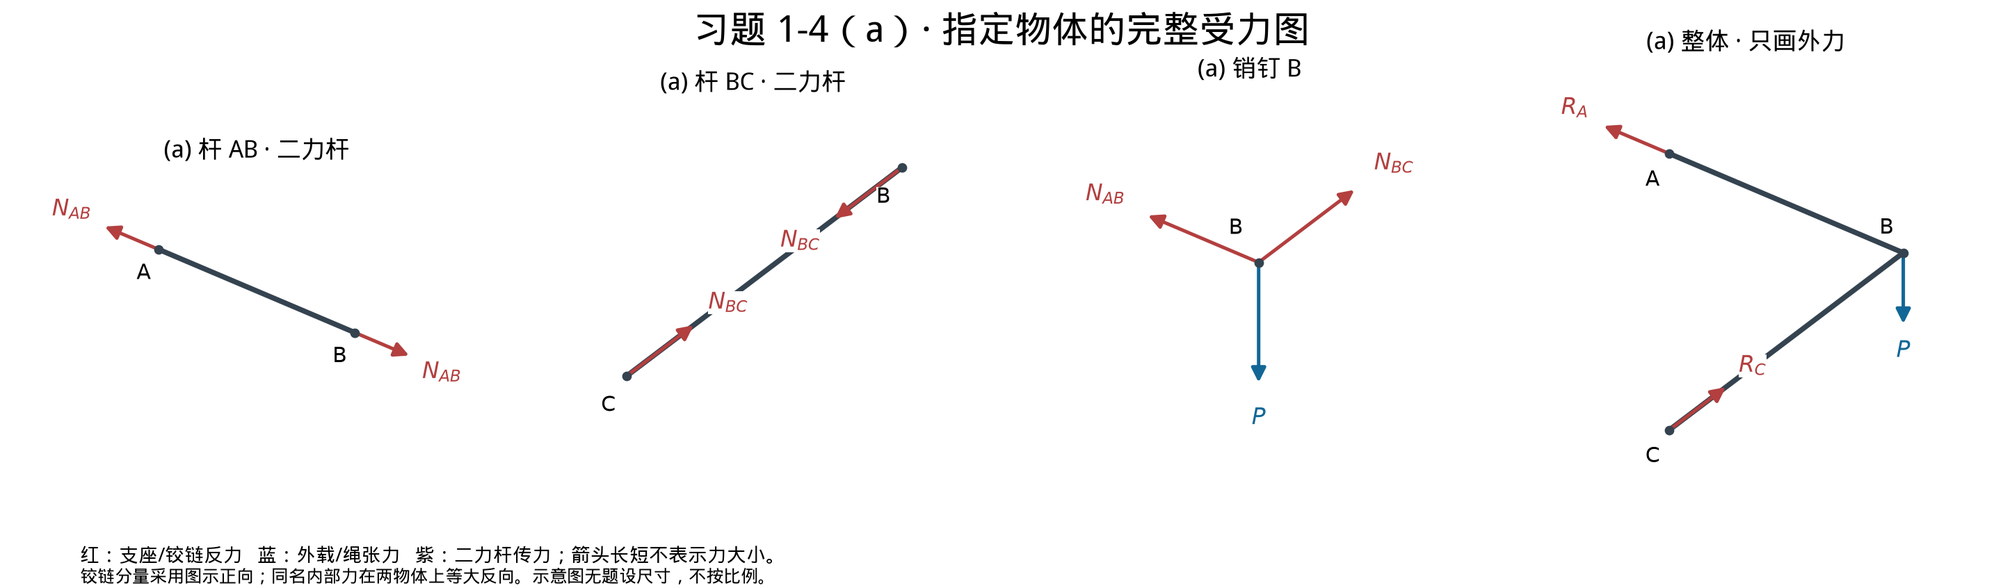
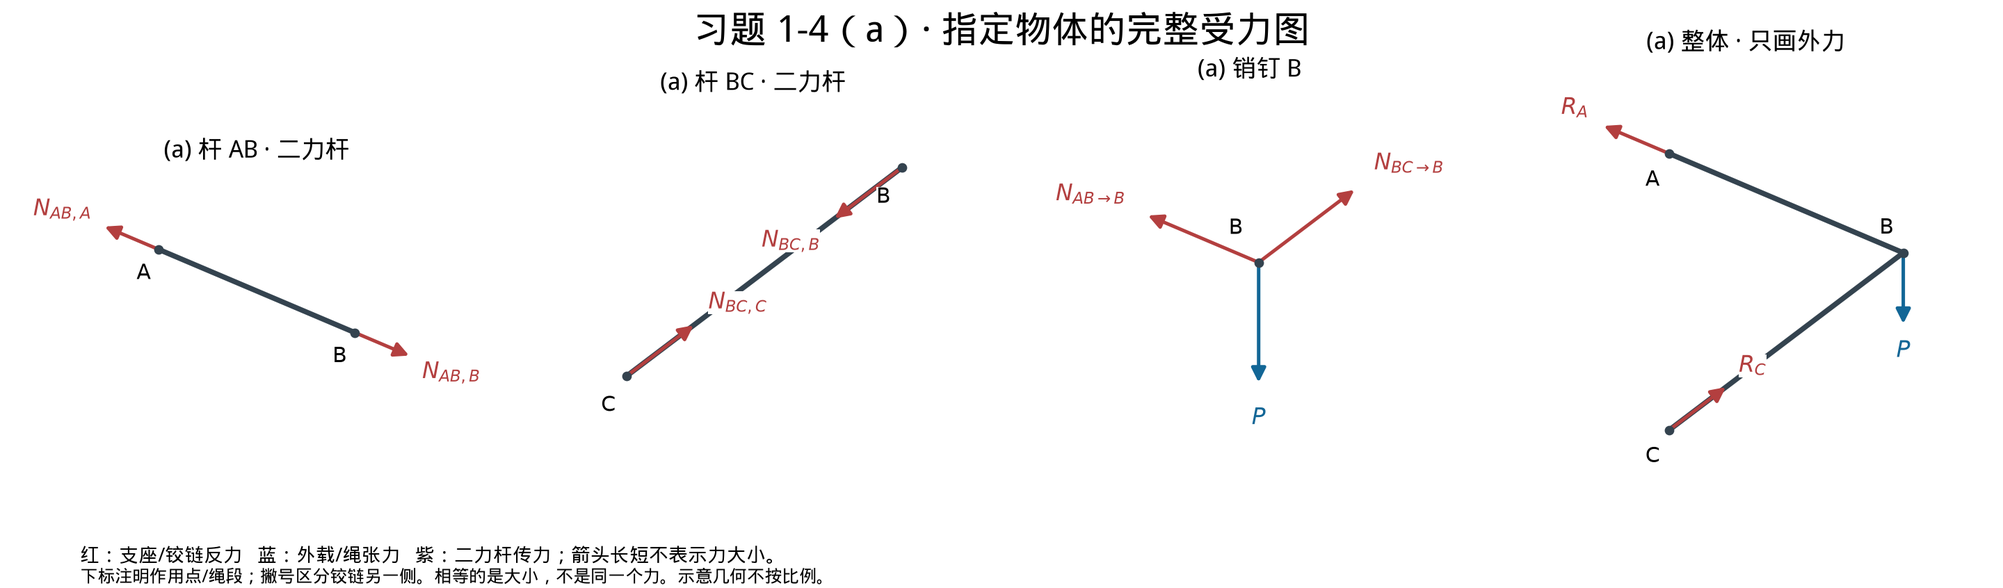
工程力学：区分杆端及绳段力名并说明平衡力与反作用力

diff --git a/scripts/generate_mechanics_homework_20260929.py b/scripts/generate_mechanics_homework_20260929.py
@@ -34,8 +34,13 @@ CJK = None
 class Force:
     point: np.ndarray
     vector: np.ndarray
-    symbol: str
+    symbol: str  # 内部的大小/分量名称，允许在物理上等大的各力之间复用。
     color: str = REACTION
+    display: str | None = None  # 图面须注明作用点、作用对象或绳段。
+
+    @property
+    def label(self):
+        return self.display or self.symbol
 
 
 @dataclass
@@ -48,8 +53,8 @@ class Body:
     ropes: list[list[tuple[float, float]]] = field(default_factory=list)
 
 
-def force(point, vector, symbol, color=REACTION):
-    return Force(np.asarray(point, dtype=float), np.asarray(vector, dtype=float), symbol, color)
+def force(point, vector, symbol, color=REACTION, display=None):
+    return Force(np.asarray(point, dtype=float), np.asarray(vector, dtype=float), symbol, color, display)
 
 
 def unit(p, q):
@@ -57,8 +62,10 @@ def unit(p, q):
     return v / np.linalg.norm(v)
 
 
-def components(point, vector, x, y):
-    return [force(point, (vector[0], 0), x), force(point, (0, vector[1]), y)]
+def components(point, vector, x, y, display=None):
+    dx, dy = display or (x, y)
+    return [force(point, (vector[0], 0), x, display=dx),
+            force(point, (0, vector[1]), y, display=dy)]
 
 
 def models_14(p=2.0):
@@ -70,11 +77,14 @@ def models_14(p=2.0):
     n, m = np.linalg.solve(np.column_stack((n_ab, n_bc)), (0, p))
     ab, bc = n * n_ab, m * n_bc
     bodies["a-ab"] = Body("(a) 杆 AB · 二力杆", {"A": A, "B": B},
-                           [force(A, ab, "N_{AB}"), force(B, -ab, "N_{AB}")], [[A, B]])
+                           [force(A, ab, "N_{AB}", display="N_{AB,A}"),
+                            force(B, -ab, "N_{AB}", display="N_{AB,B}")], [[A, B]])
     bodies["a-bc"] = Body("(a) 杆 BC · 二力杆", {"B": B, "C": C},
-                           [force(B, -bc, "N_{BC}"), force(C, bc, "N_{BC}")], [[B, C]])
+                           [force(B, -bc, "N_{BC}", display="N_{BC,B}"),
+                            force(C, bc, "N_{BC}", display="N_{BC,C}")], [[B, C]])
     bodies["a-pin"] = Body("(a) 销钉 B", {"B": B},
-                            [force(B, ab, "N_{AB}"), force(B, bc, "N_{BC}"),
+                            [force(B, ab, "N_{AB}", display=r"N_{AB\to B}"),
+                             force(B, bc, "N_{BC}", display=r"N_{BC\to B}"),
                              force(B, (0, -p), "P", LOAD)])
     bodies["a-whole"] = Body("(a) 整体 · 只画外力", {"A": A, "B": B, "C": C},
                               [force(A, ab, "R_A"), force(C, bc, "R_C"),
@@ -94,20 +104,20 @@ def models_14(p=2.0):
     bodies["b-ab"] = Body("(b) 杆 AB", {"A": A, "E": E, "B": B},
                            components(A, on_a, "A_x", "A_y")
                            + components(B, on_ab, "B_x", "B_y")
-                           + [force(E, (t, 0), "T", LOAD)], [[A, B]])
+                           + [force(E, (t, 0), "T", LOAD, display="T_E")], [[A, B]])
     bodies["b-cd"] = Body("(b) 杆 CD", {"C": C, "B": B, "D": D},
                            components(C, on_c, "C_x", "C_y")
-                           + components(B, -on_ab, "B_x", "B_y")
+                           + components(B, -on_ab, "B_x", "B_y", display=("B'_x", "B'_y"))
                            + components(D, on_d, "D_x", "D_y"), [[C, D]])
     bodies["b-h"] = Body("(b) 动滑轮 H", {"H": H},
-                          [force((H[0] - rh, H[1]), (0, t), "T", LOAD),
-                           force((H[0] + rh, H[1]), (0, t), "T", LOAD),
-                           force(H, (0, -p), "P", LOAD)], circles=[(H, rh)])
+                          [force((H[0] - rh, H[1]), (0, t), "T", LOAD, display="T_{H,L}"),
+                           force((H[0] + rh, H[1]), (0, t), "T", LOAD, display="T_{H,R}"),
+                           force(H, (0, -p), "P", LOAD, display="Q_H")], circles=[(H, rh)])
     bodies["b-d"] = Body("(b) 销钉与轮 D", {"D": D},
-                          components(D, -on_d, "D_x", "D_y")
-                          + [force((D[0], D[1] + r), (-t, 0), "T", LOAD),
-                             force((D[0] + r, D[1]), (0, -t), "T", LOAD),
-                             force(D, (0, -t), "T", LOAD)], circles=[(D, r)])
+                          components(D, -on_d, "D_x", "D_y", display=("D'_x", "D'_y"))
+                          + [force((D[0], D[1] + r), (-t, 0), "T", LOAD, display="T_{D,h}"),
+                             force((D[0] + r, D[1]), (0, -t), "T", LOAD, display="T_{D,r}"),
+                             force(D, (0, -t), "T", LOAD, display="T_{D,0}")], circles=[(D, r)])
     weight = (H[0], H[1] - 1.1)
     weight_box = [(weight[0] - .25, weight[1] - .2), (weight[0] + .25, weight[1] - .2),
                   (weight[0] + .25, weight[1] + .2), (weight[0] - .25, weight[1] + .2),
@@ -130,14 +140,15 @@ def models_14(p=2.0):
     nb = (D[0] * d_on_ce[1] + B[0] * eb_on_ce[1]) / B[0]
     a = d_on_ce + eb_on_ce - (0, nb)
     c_top, c_right = (C[0], C[1] + r), (C[0] + r, C[1])
-    rope_forces = [force(c_top, (-p, 0), "T", LOAD), force(c_right, (0, -p), "P", LOAD)]
+    rope_forces = [force(c_top, (-p, 0), "T", LOAD, display="T_h"),
+                   force(c_right, (0, -p), "P", LOAD, display="T_v")]
     bodies["c-ab"] = Body("(c) 杆 AB 与销钉 B", {"A": A, "D": D, "B": B},
                            components(A, a, "A_x", "A_y")
                            + components(D, -d_on_ce, "D_x", "D_y")
-                           + [force(B, (0, nb), "N_B"), force(B, -eb_on_ce, "F_{EB}", LINK)], [[A, B]])
+                           + [force(B, (0, nb), "N_B"), force(B, -eb_on_ce, "F_{EB}", LINK, display="F_{EB,B}")], [[A, B]])
     bodies["c-ce"] = Body("(c) 杆 CE 与滑轮", {"E": E, "D": D, "C": C},
-                           components(D, d_on_ce, "D_x", "D_y")
-                           + [force(E, eb_on_ce, "F_{EB}", LINK)] + rope_forces,
+                           components(D, d_on_ce, "D_x", "D_y", display=("D'_x", "D'_y"))
+                           + [force(E, eb_on_ce, "F_{EB}", LINK, display="F_{EB,E}")] + rope_forces,
                            [[E, C]], [(C, r)])
     bodies["c-whole"] = Body("(c) 整体 · D/EB力不画", {"A": A, "D": D, "B": B, "E": E, "C": C},
                               components(A, a, "A_x", "A_y") + [force(B, (0, nb), "N_B")]
@@ -247,7 +258,7 @@ def plot_body(ax, body):
                 bbox=dict(facecolor="white", edgecolor="none", pad=.1), zorder=8)
         extents.extend((point, (point[0] + 2 * dx, point[1] + 2 * dy)))
     for load in body.forces:
-        end, pos = arrow(ax, load.point, load.vector, f"${load.symbol}$", load.color)
+        end, pos = arrow(ax, load.point, load.vector, f"${load.label}$", load.color)
         extents.extend((load.point, end, pos))
     points = np.asarray(extents)
     lo, hi = points.min(axis=0), points.max(axis=0)
@@ -263,13 +274,13 @@ def save_group(bodies, group, shape, figsize):
         plot_body(ax, body)
     for ax in axes[len(selected):]:
         ax.axis("off")
-        chinese(ax, .08, .82, "动滑轮 H：2T = P", 15, transform=ax.transAxes)
-        chinese(ax, .08, .63, "轮 D：顶部、右侧、轴心各一项 T", 12, transform=ax.transAxes)
-        chinese(ax, .08, .44, "B、D两侧的同名分量等大反向", 12, transform=ax.transAxes)
+        chinese(ax, .08, .82, "动滑轮 H：2T = QH = P", 15, transform=ax.transAxes)
+        chinese(ax, .08, .63, "T的下标区分绳段；理想绳各段大小相等", 12, transform=ax.transAxes)
+        chinese(ax, .08, .44, "B、D连接另一侧用撇号；对应力反向", 12, transform=ax.transAxes)
         chinese(ax, .08, .25, "整体只保留 A、C 支反力和 P", 12, transform=ax.transAxes)
     fig.suptitle(f"习题 1-4（{group}）· 指定物体的完整受力图", fontproperties=CJK, fontsize=21, y=.98)
     fig.text(.04, .045, "红：支座/铰链反力   蓝：外载/绳张力   紫：二力杆传力；箭头长短不表示力大小。", fontproperties=CJK, fontsize=11)
-    fig.text(.04, .01, "铰链分量采用图示正向；同名内部力在两物体上等大反向。示意图无题设尺寸，不按比例。", fontproperties=CJK, fontsize=10)
+    fig.text(.04, .01, "下标注明作用点/绳段；撇号区分铰链另一侧。相等的是大小，不是同一个力。示意几何不按比例。", fontproperties=CJK, fontsize=10)
     fig.subplots_adjust(left=.025, right=.975, top=.87, bottom=.14, wspace=.20, hspace=.30)
     fig.savefig(OUT / f"解答-1-4-{group}.png", dpi=180)
     plt.close(fig)

diff --git a/scripts/verify_mechanics_homework_20260929.py b/scripts/verify_mechanics_homework_20260929.py
@@ -74,6 +74,10 @@ def verify_14():
         for key, symbols in expected.items():
             body = bodies[key]
             assert Counter(load.symbol for load in body.forces) == Counter(symbols), key
+            # 每个分离体的可见标注必须区分作用点/对象，不能因共享大小名称而重名。
+            labels = [load.label for load in body.forces]
+            assert all(not any(ord(char) < 32 for char in label) for label in labels), labels
+            assert len(labels) == len(set(labels)), (key, labels)
             check_balance(body.forces)
             for load in body.forces:
                 # 铰链的x/y分量必须水平/竖直，不能用两项斜箭头或一项合力替代。
@@ -81,6 +85,13 @@ def verify_14():
                     assert load.vector[1] == 0
                 if load.symbol.endswith("_y"):
                     assert load.vector[0] == 0
+        assert [f.label for f in bodies["a-ab"].forces] == ["N_{AB,A}", "N_{AB,B}"]
+        assert [f.label for f in bodies["a-bc"].forces] == ["N_{BC,B}", "N_{BC,C}"]
+        for key in ("b-cd", "b-d", "c-ce"):
+            assert any("'" in f.label for f in bodies[key].forces), key
+        assert pick(bodies["b-h"], "P").label == "Q_H"
+        assert pick(bodies["c-ce"], "T").label == "T_h"
+        assert pick(bodies["c-ce"], "P").label == "T_v"
         for key, symbol in (("a-ab", "N_{AB}"), ("a-bc", "N_{BC}")):
             first, second = bodies[key].forces
             opposite(first, second)
@@ -109,7 +120,7 @@ def verify_14():
                 if np.linalg.norm(r) > 1e-10:
                     assert np.isclose(np.linalg.norm(r), radius)
                     assert abs(np.dot(r, load.vector)) < 1e-9 * p
-    print("PASS：120组×12个分离体/整体，外力清单、正交分量、绳切线、内部力反向及三个矩心平衡")
+    print("PASS：120组×12个分离体/整体，可见标注无重名、外力清单、正交分量、绳切线、内力反向及三个矩心平衡")
 
 
 def solve_36(p, arm_f, arm_p, yc, yb, yd):

diff --git a/工程力学/作业/2026-09-29-作业/参考答案.md b/工程力学/作业/2026-09-29-作业/参考答案.md
@@ -19,14 +19,41 @@
 构件自重及摩擦按题中理想约束忽略。
 
 **读图说明**：下面三个分图共包含 **12 个指定分离体**。箭头长短不表示力大小，几何不按比例；
-铰链未知分量采用图示正向，同名内部力在两物体上反向。整体图只保留外力，不重复画内力。
+铰链未知分量采用图示正向。为避免同名力混淆，现加作用点/绳段下标，并用撇号区分铰链另一侧。
+整体图只保留外力；各分离体图独立记账，不能把不同图上的箭头相加后说同一物体受了这么多力。
+
+### 为什么原图有两个 N_AB？——大小相等，不是同一个力
+
+原图在杆 AB 的两端都写 N_AB，是将**两端外力的大小**统一记为 N_AB，不是将同一力画两次。
+现将图上两个力分别标为 $N_{AB,A}$、$N_{AB,B}$：
+
+| 新图标记 | 谁对谁施力 | 作用点 | 图示方向 |
+|---|---|---|---|
+| $N_{AB,A}$ | A处支座对杆AB | 杆的A端 | 左上，沿BA |
+| $N_{AB,B}$ | 销钉B对杆AB | 杆的B端 | 右下，沿AB |
+| $N_{AB\to B}$ | 杆AB对销钉B | 销钉B | 左上，与上一行反向 |
+
+前两项都作用在**同一根杆 AB**上：因杆只受这两个外力且平衡，两力大小相等、方向相反、共线。
+它们是杆的**一对平衡力，不是第三定律的一对作用力与反作用力**。
+
+第二、三项才是作用力与反作用力：一项作用在杆 AB，另一项作用在销钉 B。
+三项大小都等于 N_AB，但作用点/对象不同；箭头给出方向，不能把“大小相等”误读为“力矢量相同”。
+BC 两端按同样方法改标 $N_{BC,B}$、$N_{BC,C}$；销钉上标 $N_{BC\to B}$。 **不同杆的 N_AB 与 N_BC 一般并不相等**；图上箭头长短只是示意，不是大小比较。
+
+其他重复符号也区分如下：
+
+- **铰链另一侧**：(b) AB上的 B_x/B_y 与 CD上的 B′_x/B′_y，CD上的 D_x/D_y 与轮D上的 D′_x/D′_y；(c) AB上的 D_x/D_y 与 CE上的 D′_x/D′_y。对应的是不同物体上等大反向的力，撇号不是导数。图示标量按各自箭头计，在同一坐标系比较的是相反的力矢量。
+- **理想绳的不同段**：(b)用 T_E、T_H,L、T_H,R、T_D,h、T_D,r、T_D,0 标明位置，大小均等于 T＝P/2；相等的大小不代表只有一个绳力。
+- **重物传给轮H的力**：记 Q_H＝P，而不是把它误读成轮H自己的重力。P是所吊重物的重力大小。
+- **(c)滑轮两绳力**：记水平 T_h、竖直 T_v，且 T_h＝T_v＝P；竖直力是绳对滑轮的拉力，不是直接作用在滑轮上的重物重力。
+- **不同小题互相独立**：(b)的 T＝P/2，(c)的 T＝P；跨小题复用字母不表示同一个未知量或相同数值。一个外力在构件图、整体图中再次出现，则是同一外力的两种独立记账，不可重复计入同一平衡方程。
 
 ### (a) 对象：AB、BC、销钉 B、整体
 
 ![习题1-4(a)受力图：杆AB、杆BC、销钉B与整体](图/解答-1-4-a.png)
 
-- **杆 AB**：仅 A、B 两处受力，杆上无载荷 → **二力杆**。A、B 端力等大反向、沿直线 AB。按图中 P 向下，AB 受拉，A 端力向左上、B 端力向右下。
-- **杆 BC**：仅 B、C 两处受力 → **二力杆**。B、C 端力等大反向、沿直线 BC。BC 受压，B 端力向左下、C 端力向右上。
+- **杆 AB**：仅 A、B 两处受力，杆上无载荷 → **二力杆**。A端 $N_{AB,A}$ 与 B端 $N_{AB,B}$ 大小相等、反向、沿直线 AB。按图中 P 向下，AB 受拉，A 端力向左上、B 端力向右下。
+- **杆 BC**：仅 B、C 两处受力 → **二力杆**。B端 $N_{BC,B}$ 与 C端 $N_{BC,C}$ 大小相等、反向、沿直线 BC。BC 受压，B 端力向左下、C 端力向右上。
 - **销钉 B**：三个力——外载 P（竖直向下）；AB 对销的力（沿 BA，向左上）；BC 对销的力（沿 CB，向右上）。两杆对销的力与销对两杆的力分别反向，三力汇交于 B 并平衡。
 - **整体**：外力只有 A 处反力（沿 AB、向左上）、C 处反力（沿 CB、向右上）、B 处 P（向下）。两杆之间的销钉力属于内力，不画；三条外力作用线交于 B。
 
@@ -37,10 +64,10 @@
 理想绳张力全绳相等记 T；轮 H 吊重 P，左右两绳段竖直：
 **2T＝P，即 T＝P/2**。
 
-- **杆 AB**：A 铰支的两分量 `(A_x, A_y)`；E 点绳拉力 T（水平向右、指向 D）；B 铰的两分量 `(B_x, B_y)`。共 5 个力分量，**不是二力杆**。
-- **杆 CD**：C 铰支的两分量 `(C_x, C_y)`；B 铰的两分量（与 AB 上同名分量反向）；D 处销对杆的两分量 `(D_x, D_y)`。共 6 个力分量。
-- **轮 H（动滑轮）**：左、右两绳段各一项 T（向上），吊重通过连接件向下拉轮，记 P。平衡得到 T＝P/2。
-- **销钉和轮 D（合取）**：绳对轮/销共有 **三项 T**：顶部切线水平向左、右侧切线竖直向下、系于轴心的绳端竖直向下；另外有杆 CD 通过销传来的两分量，与杆 CD 上的 `(D_x, D_y)` 分别反向。不可漏掉轴心的第三项 T。
+- **杆 AB**：A 铰支的两分量 `(A_x, A_y)`；E 点绳拉力 T_E＝T（水平向右、指向 D）；B 铰的两分量 `(B_x, B_y)`。共 5 个力分量，**不是二力杆**。
+- **杆 CD**：C 铰支的两分量 `(C_x, C_y)`；B 铰两分量 `(B′_x, B′_y)`（与 AB 上 B_x/B_y 分别反向）；D 处销对杆的两分量 `(D_x, D_y)`。共 6 个力分量。
+- **轮 H（动滑轮）**：左、右两绳段分别为 T_H,L、T_H,R（向上），均等于 T；吊重通过连接件向下拉轮，记 Q_H。重物静止且连接件理想，Q_H＝P；轮H平衡得到 T_H,L＋T_H,R＝Q_H，即 2T＝P。
+- **销钉和轮 D（合取）**：绳对轮/销共有 **三项拉力**：顶部 T_D,h（水平向左）、右侧 T_D,r（竖直向下）、轴心绳端 T_D,0（竖直向下），三者大小均为 T；另外有杆 CD 通过销传来的 `(D′_x, D′_y)`，与杆 CD 上 D_x/D_y 分别反向。不可漏掉轴心的第三项绳力。
 - **整体**（杆、销、绳、滑轮及所吊重物一起取）：只画 A、C 两铰支的四个反力分量和向下的 P。绳张力及 B、D 的连接力均属于内力，不画。
 
 ### (c) 对象：AB 和销钉 B、CE 和滑轮、整体
@@ -50,9 +77,9 @@
 斜杆 EB 两端铰接、中间无载 → **二力杆**，传力沿 EB。B 处为水平辊轴支座，反力竖直，记 `N_B`。
 **D 是 AB 与 CE 的连接铰：分离任一杆时都必须画 D 的两分量，只有取整体才消去。**
 
-- **AB 和销钉 B**：A 铰支两分量 `(A_x, A_y)`；**D 铰两分量 `(D_x, D_y)`**；B 处辊轴反力 `N_B`（竖直）；B 处 EB 传来的力 `F_EB`（沿 EB，图示向右下）。共 6 个力分量，不能漏 D 点。
-- **CE 和滑轮**：E 处 EB 传来的力 `F_EB`（沿 EB、与 AB/B 上的力反向，图示向左上）；D 铰的两分量（与 AB 上同名分量反向）；滑轮顶部绳的水平张力 T（向左）与右侧绳的竖直张力（向下、等于 P）。共 5 个力分量。理想绳与所吊重物静止，T＝P，两项绳力按轮缘切线作用点画。
-- **整体**（杆、销、滑轮；绳与重物不包含在此对象内）：外力为 A 铰两分量、B 处 `N_B`、滑轮顶部向左的 T、右侧向下的 P。D 铰力与 EB 两端力都属于内力，不画。
+- **AB 和销钉 B**：A 铰支两分量 `(A_x, A_y)`；**D 铰两分量 `(D_x, D_y)`**；B 处辊轴反力 `N_B`（竖直）；B 处 EB 传来的力 `F_EB,B`（沿 EB，图示向右下）。共 6 个力分量，不能漏 D 点。
+- **CE 和滑轮**：E 处 EB 传来的力 `F_EB,E`（沿 EB、与 AB/B 上 F_EB,B 大小相等反向，图示向左上）；D 铰两分量 `(D′_x, D′_y)`（与 AB 上 D_x/D_y 分别反向）；滑轮顶部水平绳力 T_h（向左）与右侧竖直绳力 T_v（向下）。共 5 个力分量。理想绳与所吊重物静止，T_h＝T_v＝P，两项绳力按轮缘切线作用点画。
+- **整体**（杆、销、滑轮；绳与重物不包含在此对象内）：外力为 A 铰两分量、B 处 `N_B`、滑轮顶部向左的 T_h、右侧向下的 T_v。T_h＝T_v＝P。D 铰力与 EB 两端力都属于内力，不画。
 
 ### 1-4 受力图自查
 
@@ -60,11 +87,11 @@
 |---|---|
 | (a) 二力杆 | AB 两端沿 AB，BC 两端沿 BC；同杆两端反向 |
 | (a) 销钉 | 两杆力分别向左上、右上，P 向下；不能照搬杆端力的箭头 |
-| (b) 轮 H | 两项向上的 T、一项向下的 P；T＝P/2 |
+| (b) 轮 H | T_H,L、T_H,R 向上，Q_H＝P 向下；T＝P/2 |
 | (b) 销钉与轮 D | 顶部向左 T、右侧向下 T、轴心向下 T，以及轴心两反力分量 |
-| (b) 内铰 | AB/CD 的 B 分量反向；CD/轮 D 的 D 分量反向 |
+| (b) 内铰 | AB的 B_x/B_y 与 CD的 B′_x/B′_y 反向；CD的 D_x/D_y 与轮D的 D′_x/D′_y 反向 |
 | (c) D 点 | **AB 图与 CE 图都画 D 的两分量，且分别反向** |
-| (c) 滑轮绳力 | 顶部向左 T、右侧向下 P，两力均沿轮缘切线；T＝P |
+| (c) 滑轮绳力 | 顶部向左 T_h、右侧向下 T_v，两力均沿轮缘切线；T_h＝T_v＝P |
 | 所有整体图 | 删除内部连接力，只画对应研究对象受到的外力 |
 
 ---

diff --git a/工程力学/memory/HANDOFF.md b/工程力学/memory/HANDOFF.md
@@ -2,6 +2,15 @@
 
 > **永远保持最新。新会话开局第一件事：读本学科 `_开局指令-给新会话Agent.md`，再读本文件。**
 
+## 最新复核 · 2026-10-02 · 同名力标注消歧（优先于下方旧图标注）
+
+- 用户问“这都对吗？为啥好几个力的命名一致。两个NAB”。不是用户提交的错误答案，不判卷、不升降卡片。
+- 重新对照1-4原题/三组图并运行独立核验：未发现新的受力漏项；3-6五个数值仍与教材答案页一致。本轮只改善命名，不改变作用点/方向/计算结果；改名前后12个分离体模型数据逐项比较相同。
+- **关键解释**：AB图的两项N_AB是A端支座对杆、B端销对杆的两个外力，大小相等而矢量反向，均在AB上，是二力杆的一对平衡力，**不是第三定律的一对作用反作用力**。AB/B端受销的力与销钉图上AB对销的力，才是不同物体上的作用反作用。N_AB与另一杆N_BC一般不等。
+- 新图：AB两端`N_AB,A/N_AB,B`、BC两端`N_BC,B/N_BC,C`；销钉力注明`AB→B/BC→B`；铰链另一侧分量加撇号；绳力注明H/D/方向或端点，轮H连接力用Q_H=P，(c)两绳力用T_h/T_v且均=P。各小题独立，(b)T=P/2与(c)T=P不混用。
+- `参考答案.md`新增“为什么原图有两个N_AB”与施力/受力对象表，并同步更新逐物体说明；生成器将物理大小名称与可见标签分离，核验追加每个分离体可见标签唯一/无控制字符检查。三张分图与兼容旧总图已重生成、肉眼检查。
+- 1-4仍是按理想约束独立复核、无第1章官方答案，不能夸称官方核对；仅命名说明与模型检查，用户未接受教学验收。继续仅推`arena/01a0fb75-zixue2026`，不写main。
+
 ## 最新修复 · 2026-10-02 · 9月29日参考答案补图（优先于旧交付记录）
 
 - 用户指出“工程力学最新的答案里没有图”。根因：`作业/2026-09-29-作业/参考答案.md` 只有代码样式的文件名，没有 Markdown 图片语法；不是PNG丢失。

diff --git a/工程力学/memory/ERRORS.md b/工程力学/memory/ERRORS.md
@@ -125,3 +125,11 @@
 - **图面未被此前复核充分覆盖**：旧1-4(c)AB图和文字漏D铰两分量，旧图还有两分量斜画、销钉力与杆端力箭头不反向；3-6漏XA/XB。已重绘全部12分离体及3-6完整空间图，按外力清单、正交方向、内部力配对、轮缘切线核验；数值正确不能替代图面逐项核对。
 - **PDF索引差一页**：旧题面/JSON将0-based索引30/77当PDF页码，答案写288。实际PDF1-based为31/78和289；原件对应34/81。双源文本/像素核验后同步改题面、答案、JSON、docx/预览与入口。
 - **可迁移红线**：分离体先逐点列全外力（本例D在两杆上都出现，整体才消去）；每对内力核查反向；铰链两分量不可斜画冒充；不把偏心力搬到轴线上漏力偶。自检P与F必须分开，用不等力臂测试防止恒等式“假通过”。1-4自选示意几何只验证模型，不冒充官方答案。
+
+
+## 【符号判例】等大力共用名称须讲清受力对象（2026-10-02）
+
+- Agent图上将杆AB两端均标N_AB，用户追问“两个NAB”；这不是重画同一力的物理错误，而是对初学者不够清楚的大小记法。现分别标N_AB,A/N_AB,B；销钉所受杆力另注明来源，铰链另一侧加撇号，绳力注明绳段。
+- **不可把所有等大反向的力都称为作用反作用**：杆AB的A/B端两个外力均作用AB，因二力杆平衡而等大反向；销对杆B端的力与杆对销的力，才属于不同物体上的作用反作用。
+- N是大小名称，完整受力还需对象/作用点/方向；不同小题同名量独立、不同杆N_AB/N_BC不默认相等。轮H的连接力Q_H=P、滑轮的竖直绳力T_v=P只是大小等于重物P，不能描述成滑轮自重。
+- 本轮改名前后12个模型逐项比较未改作用点/矢量；独立核验通过。问题问句不当作用户错误、不升级验收。后续图面标注检查每个分离体标签不重名，且逐张肉眼确认渲染。

diff --git a/工程力学/作业/README.md b/工程力学/作业/README.md
@@ -56,7 +56,7 @@
 | `2026-09-29-作业/题面.md` | 题面誊录及内嵌原题图；页码换算（1-4：教材26/框架PDF31/原件PDF34；3-6：教材73/框架PDF78/原件PDF81，均从1计页） |
 | [2026-09-29-作业/参考答案.md](2026-09-29-作业/参考答案.md) | **图已直接嵌入正文**：两张原题图、1-4 的12个指定分离体（a/b/c三组）、3-6完整空间受力图；1-4(c)已补D铰两反力分量。3-6建系+五方程+自查表，**与教材答案页（框架PDF289）逐项一致**（F=800、XA=320、ZA=−480、XB=−1120、ZB=−320），附两轴承合反力大小 |
 | `2026-09-29-作业/图/题1-4.png`、`题3-6.png` | 教材裁图（220 dpi） |
-| `2026-09-29-作业/图/解答-1-4-a.png`、`解答-1-4-b.png`、`解答-1-4-c.png`、`解答-3-6.png` | 修订解答图；铰链分量正交、内力成对反向、绳力按接触切线画；3-6四个轴承分量及两项200mm力臂齐全 |
+| `2026-09-29-作业/图/解答-1-4-a.png`、`解答-1-4-b.png`、`解答-1-4-c.png`、`解答-3-6.png` | 修订解答图；杆端/绳段加下标，铰链另一侧加撇号（2026-10-02消歧）；铰链分量正交、内力成对反向、绳力按接触切线画；3-6四个轴承分量及两项200mm力臂齐全 |
 | `2026-09-29-作业/图/解答-1-4.png`、`制作解答图.py`、`制作解答图-1-4.py` | 总图与两个旧脚本入口均保留；实际实现为仓级 `scripts/generate_mechanics_homework_20260929.py`，可从任意目录调用旧入口 |
 
 说明：预览 PDF 现已正常显示中文——`scripts/docx_preview_pdf.py` 在沙箱缺中文字体时会自动用

diff --git a/工程力学/memory/PROGRESS.md b/工程力学/memory/PROGRESS.md
@@ -119,3 +119,11 @@
 - PDF页码从0索引改为1-based：题面框架31/78、原件34/81、答案框架289。JSON/docx/预览同步，一页审计仍通过。
 - 仓级生成/独立核验09-29脚本已落地并通过；检查实际Markdown图片渲染和PNG解码，不仅查文件存在。1-4为示意几何自检，不声称官方核对。
 - 本轮不是判卷或课题验收，不改复习卡、不要求交卷；仅推`arena/01a0fb75-zixue2026`，不更新main。
+
+
+### 2026-10-02 续 · 两个N_AB与其他同名力的消歧
+
+- 用户追问正确性和重复命名；重新对照原题/图并跑独立核验，12分离体作用点/力矢量与改名前逐项一致，3-6结果不变。
+- 解释：AB两端大小均N_AB，分别作用于杆的A/B端，是同一物体上的平衡力；杆在B端受销的力与杆对销的力才为作用反作用。不同杆N_AB/N_BC不默认相等。
+- 图面改为杆端下标、销钉受力来源、铰链对侧撇号、绳段下标；Q_H=P与T_h=T_v=P明确为传递力大小，非把重物重力直接画在滑轮上。答案新增符号解释表。
+- 核验新增可见标签唯一/控制字符检查，全部通过；只说明和标注，不判卷、不更改课题/卡片状态，仅推当前工作分支。

diff --git a/工程力学/memory/LEARNINGS.md b/工程力学/memory/LEARNINGS.md
@@ -41,6 +41,8 @@
 
 ## 知识背景
 
+- [2026-10-02] **重复力名引发正确性质疑**：用户问为什么有两个N_AB；不能直接记成用户混淆或答错。说明“同一大小符号≠同一力”，按“谁对谁施力→作用点→方向”列明，区分同杆两端的平衡力与杆/销之间的作用反作用；图面用作用点/对象/绳段下标与铰链对侧撇号，不仅靠箭头。已解释，未发生用户作答或教学验收。
+
 - [2026-08-24] **交互方式变化**：用户不能再发语音输入，此后本学科以**写字/拍照答题**
   为主（平板手写受力图拍照可直接判读）。语音容错仍为通用设定，但不再是本学科主渠道。
 - [2026-08-24] **节奏指令（用户直接指令，最高优先级）**："你每次多讲些，我多写些；减少轮数，
